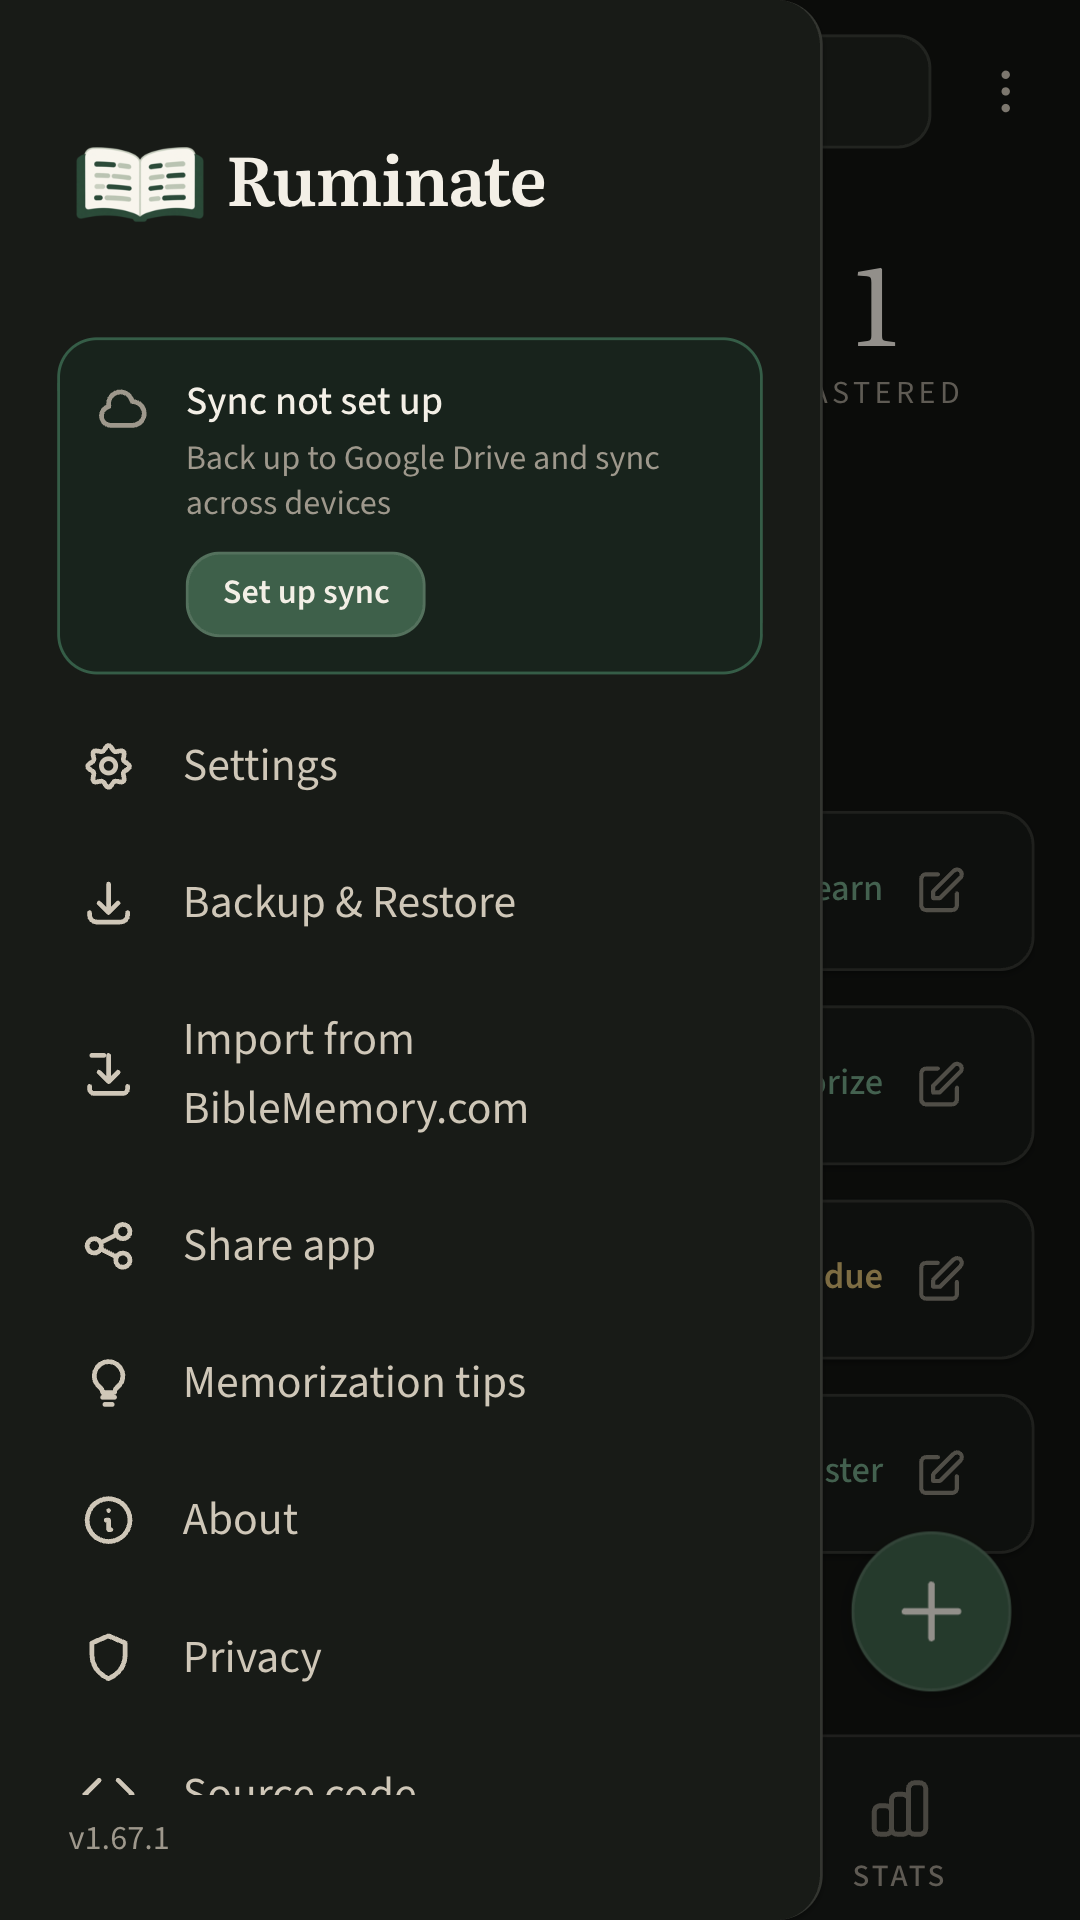
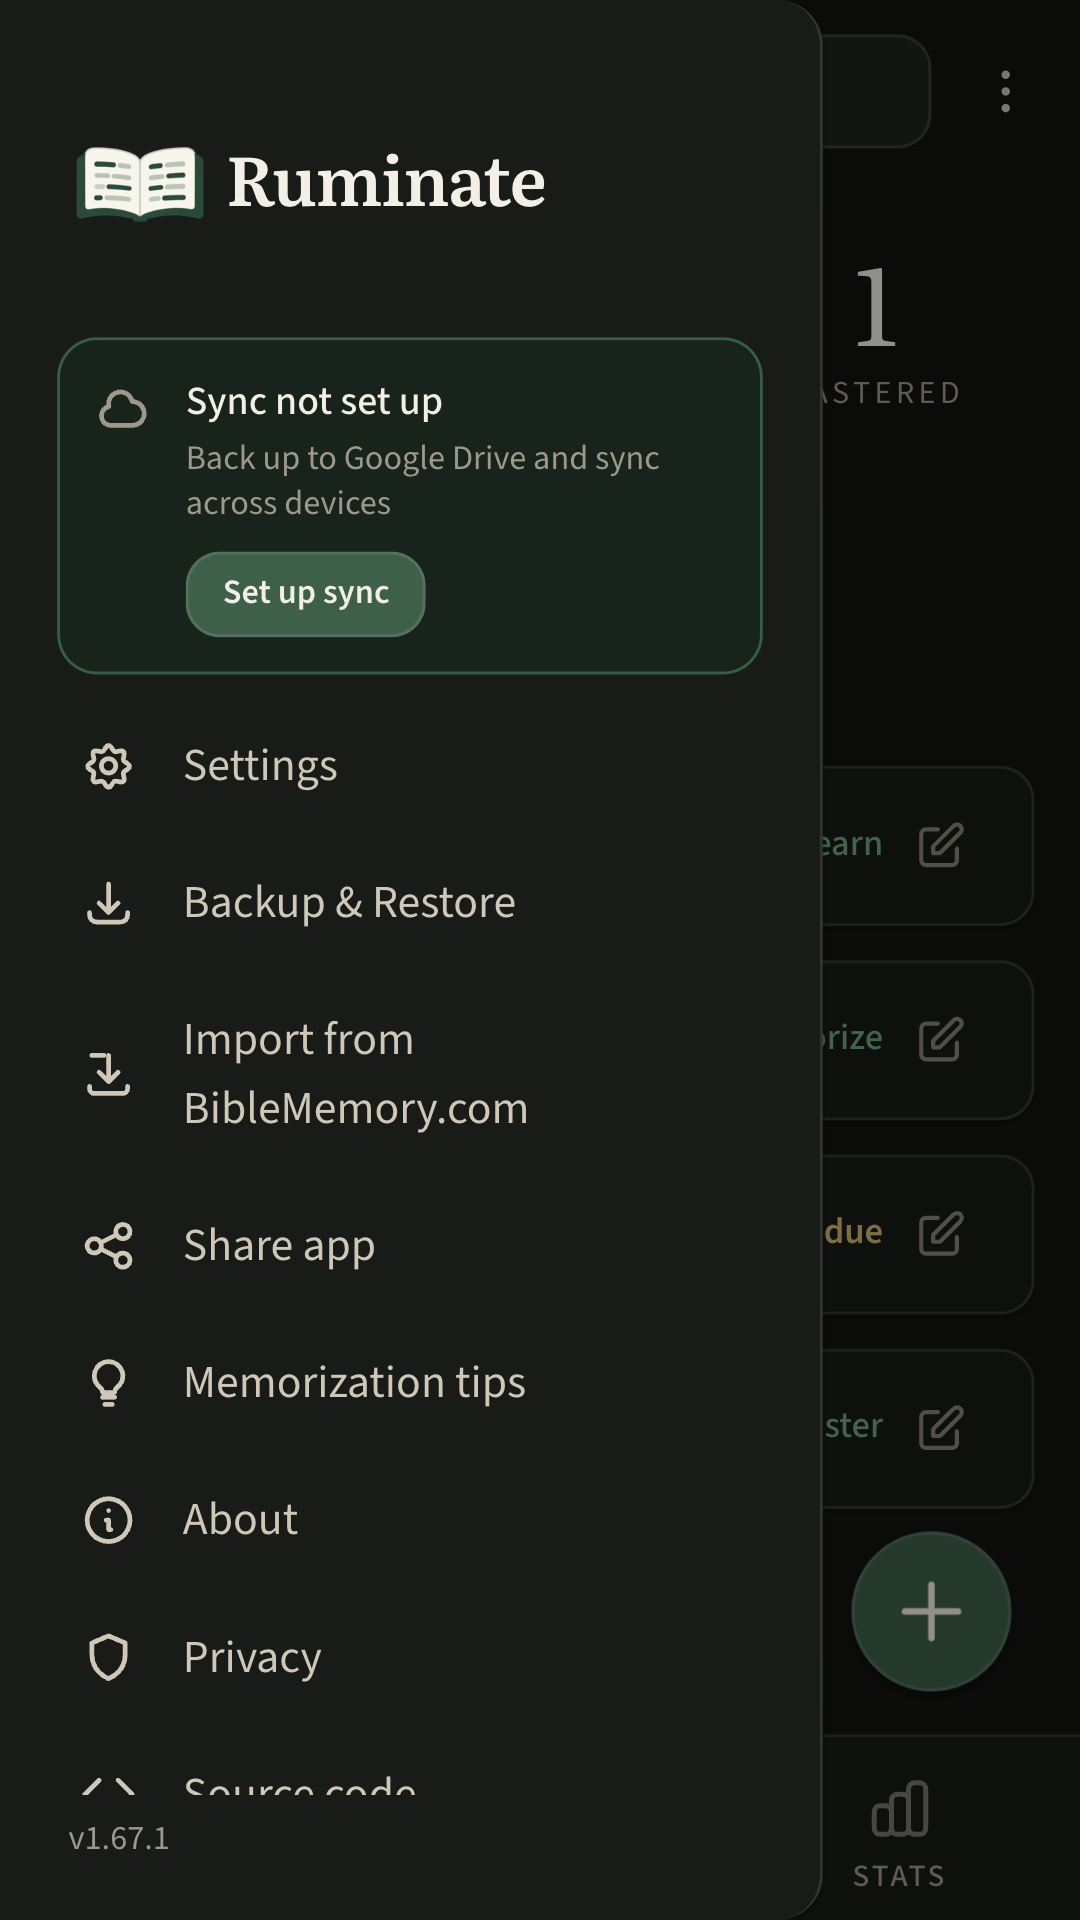
fix: standardize list heading typography and spacing

diff --git a/src/App.vue b/src/App.vue
@@ -817,24 +817,26 @@
               v-for="section in reviewSections"
               :key="section.id"
               :aria-labelledby="`review-section-${section.id}`"
-              class="space-y-2 pt-3"
+              class="pt-3"
             >
-              <div class="flex items-baseline justify-between gap-4 px-4 pb-1">
-                <h2 :id="`review-section-${section.id}`" class="text-sm font-semibold text-text-primary">{{ section.label }}</h2>
+              <div class="list-section-header flex items-baseline justify-between gap-4 px-4">
+                <h2 :id="`review-section-${section.id}`" class="list-section-heading">{{ section.label }}</h2>
                 <span v-if="section.id === 'extra'" class="shrink-0 text-xs text-text-muted">Last reviewed</span>
               </div>
-              <VerseListItem
-                v-for="verse in section.verses"
-                :key="verse.id"
-                :reference="verse.reference"
-                :bible-version="verse.bibleVersion"
-                :status="section.id === 'due' ? 'mastered' : ''"
-                :due="section.id === 'due'"
-                :meta="section.id === 'extra' ? getLastReviewedLabel(verse) : ''"
-                :stats-enabled="appSettings.statsForNerds"
-                @stats="openVerseStats(verse)"
-                @click="handleVerseClick(verse)"
-              />
+              <div class="space-y-2">
+                <VerseListItem
+                  v-for="verse in section.verses"
+                  :key="verse.id"
+                  :reference="verse.reference"
+                  :bible-version="verse.bibleVersion"
+                  :status="section.id === 'due' ? 'mastered' : ''"
+                  :due="section.id === 'due'"
+                  :meta="section.id === 'extra' ? getLastReviewedLabel(verse) : ''"
+                  :stats-enabled="appSettings.statsForNerds"
+                  @stats="openVerseStats(verse)"
+                  @click="handleVerseClick(verse)"
+                />
+              </div>
             </section>
           </template>
           <template v-else>

diff --git a/src/components/CollectionsAlmanac.vue b/src/components/CollectionsAlmanac.vue
@@ -1,5 +1,5 @@
 <template>
-  <section class="almanac px-1 pt-2 pb-6">
+  <section class="almanac px-1 pt-2" :class="{ 'pb-6': !sectionTitle }">
     <div class="almanac__stats grid grid-cols-3 gap-3 sm:gap-6 stagger-fade">
       <div class="almanac__stat">
         <div class="almanac__numeral">{{ currentStreak }}</div>
@@ -43,7 +43,7 @@
         </div>
       </div>
     </div>
-    <h2 v-if="sectionTitle" class="almanac__section-heading fade-in">{{ sectionTitle }}</h2>
+    <h2 v-if="sectionTitle" class="list-section-header list-section-heading almanac__section-heading fade-in">{{ sectionTitle }}</h2>
   </section>
 </template>
 

diff --git a/src/style.css b/src/style.css
@@ -513,7 +513,14 @@
   }
 
   .almanac__section-heading {
-    margin: 1rem 0 0.25rem;
+    margin: 1rem 0 0;
+  }
+
+  .list-section-header {
+    padding-bottom: 0.75rem;
+  }
+
+  .list-section-heading {
     font-family: var(--font-serif);
     font-size: 1.15rem;
     font-weight: 400;
